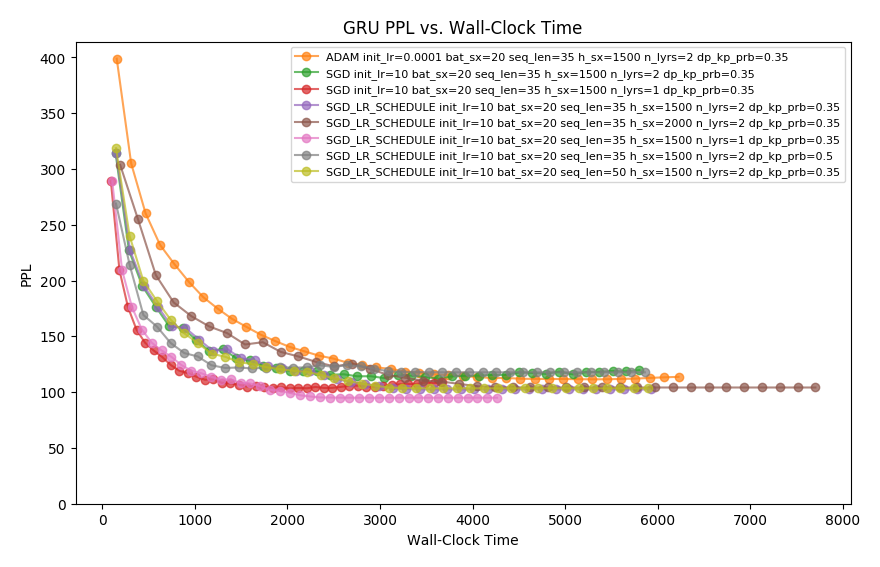
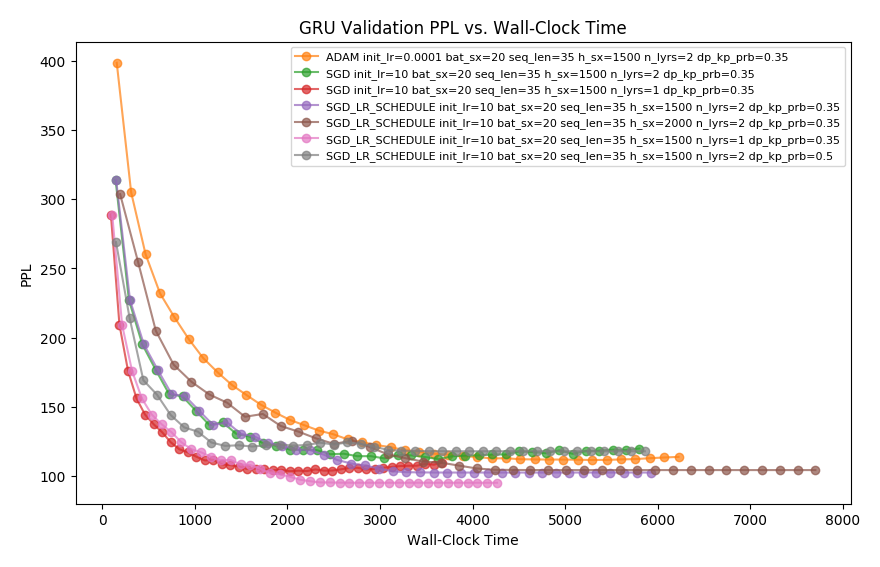
Updated section graphs

diff --git a/a2/4_graphing.py b/a2/4_graphing.py
@@ -274,18 +274,18 @@ def graph_all_results():
     df.drop(['section'], axis=1).to_csv(os.path.join(RESULTS_FOLDER, 'results_table.csv'), index=False)
 
     # # 3) Plot section results
-    # print("Graphing results per section")
-    # for section in sections[:-1]:
-    #     section_experiments = [e for e in experiments if e.section == section]
-    #     plot_section_results(section, section_experiments, y_lim=rnn_sgd_y_lim if section == '4_2' else 1000)
-    #
-    # # 4) Validation ppl curves by optimizer
-    # print("Graphing results per optimizer")
-    # plot_valid_perf_by_optimizer(experiments)
-    #
-    # # 5) Validation ppl curves by architecture
-    # print("Graphing results per architecture")
-    # plot_valid_perf_by_architecture(experiments)
+    print("Graphing results per section")
+    for section in sections[:-1]:
+        section_experiments = [e for e in experiments if e.section == section]
+        plot_section_results(section, section_experiments, y_lim=rnn_sgd_y_lim if section == '4_2' else 1000)
+
+    # 4) Validation ppl curves by optimizer
+    print("Graphing results per optimizer")
+    plot_valid_perf_by_optimizer(experiments)
+
+    # 5) Validation ppl curves by architecture
+    print("Graphing results per architecture")
+    plot_valid_perf_by_architecture(experiments)
 
 
 if __name__ == '__main__':
